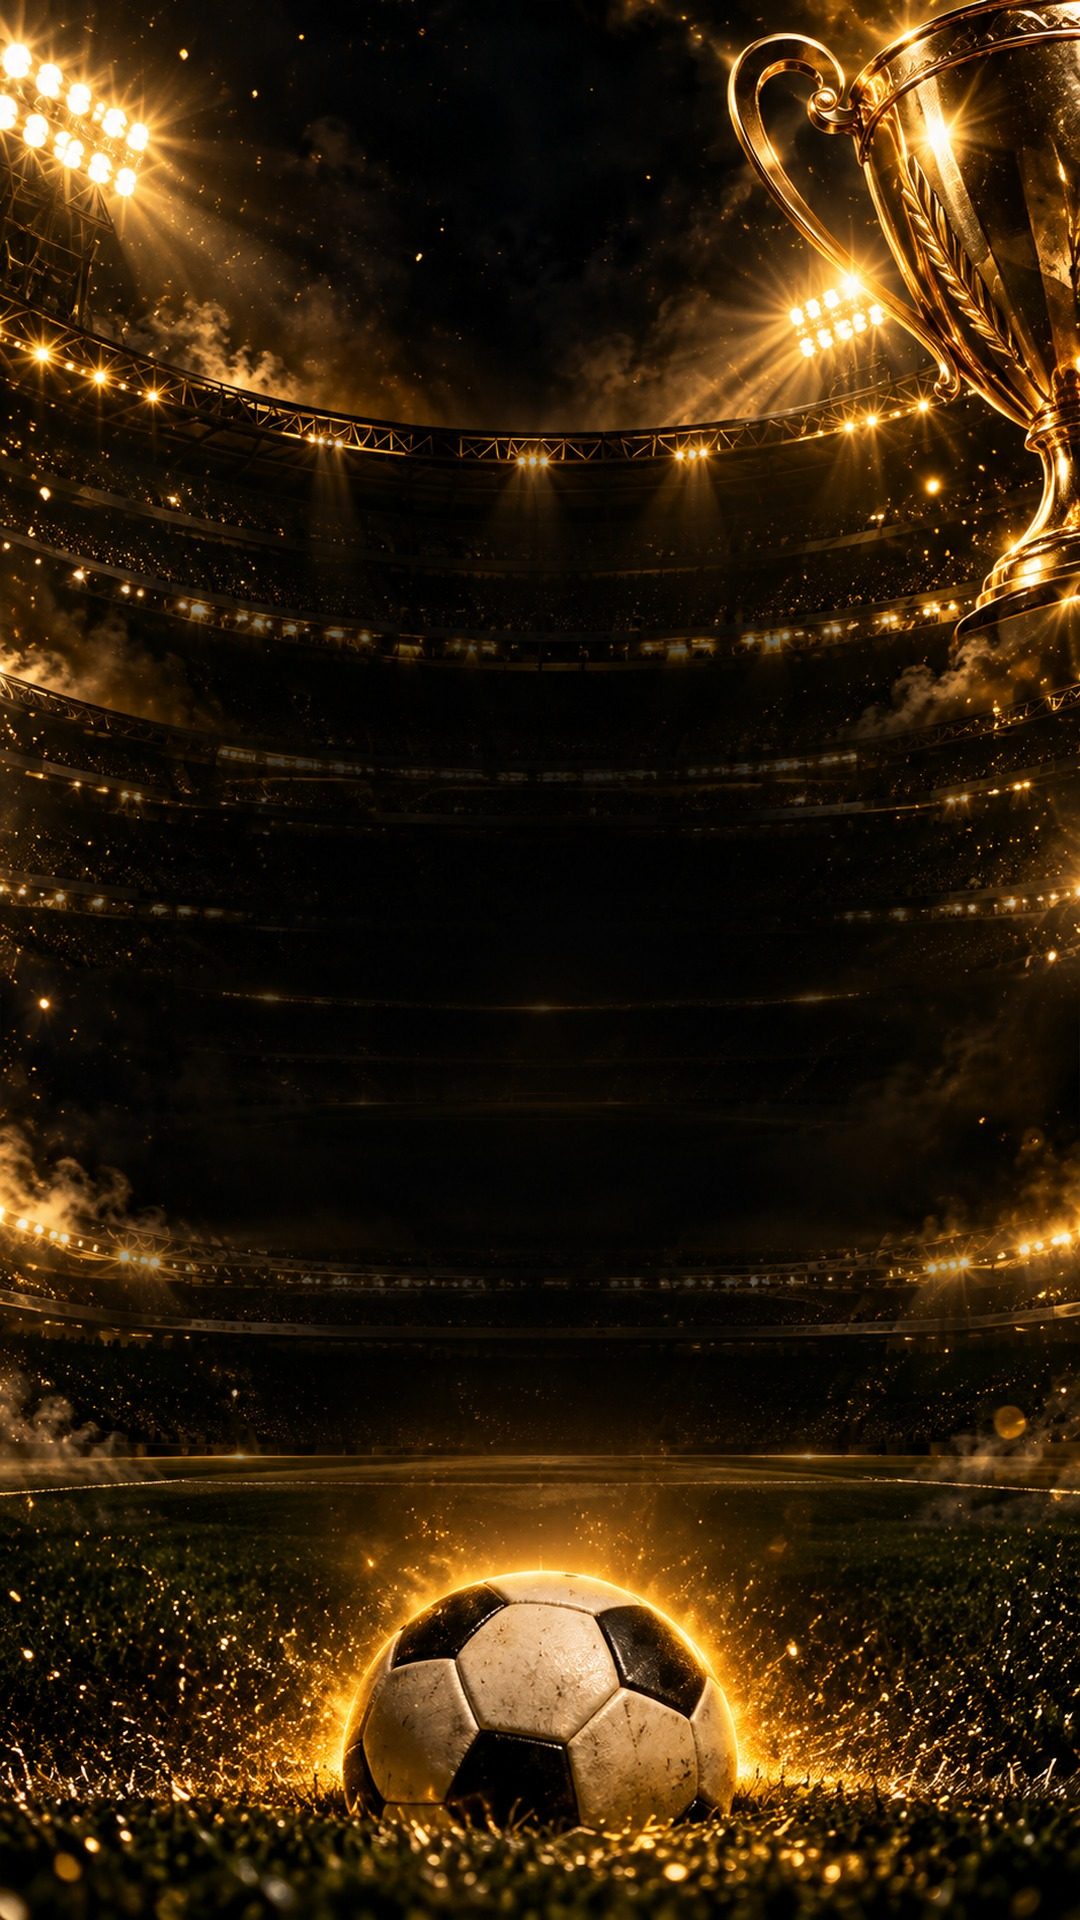
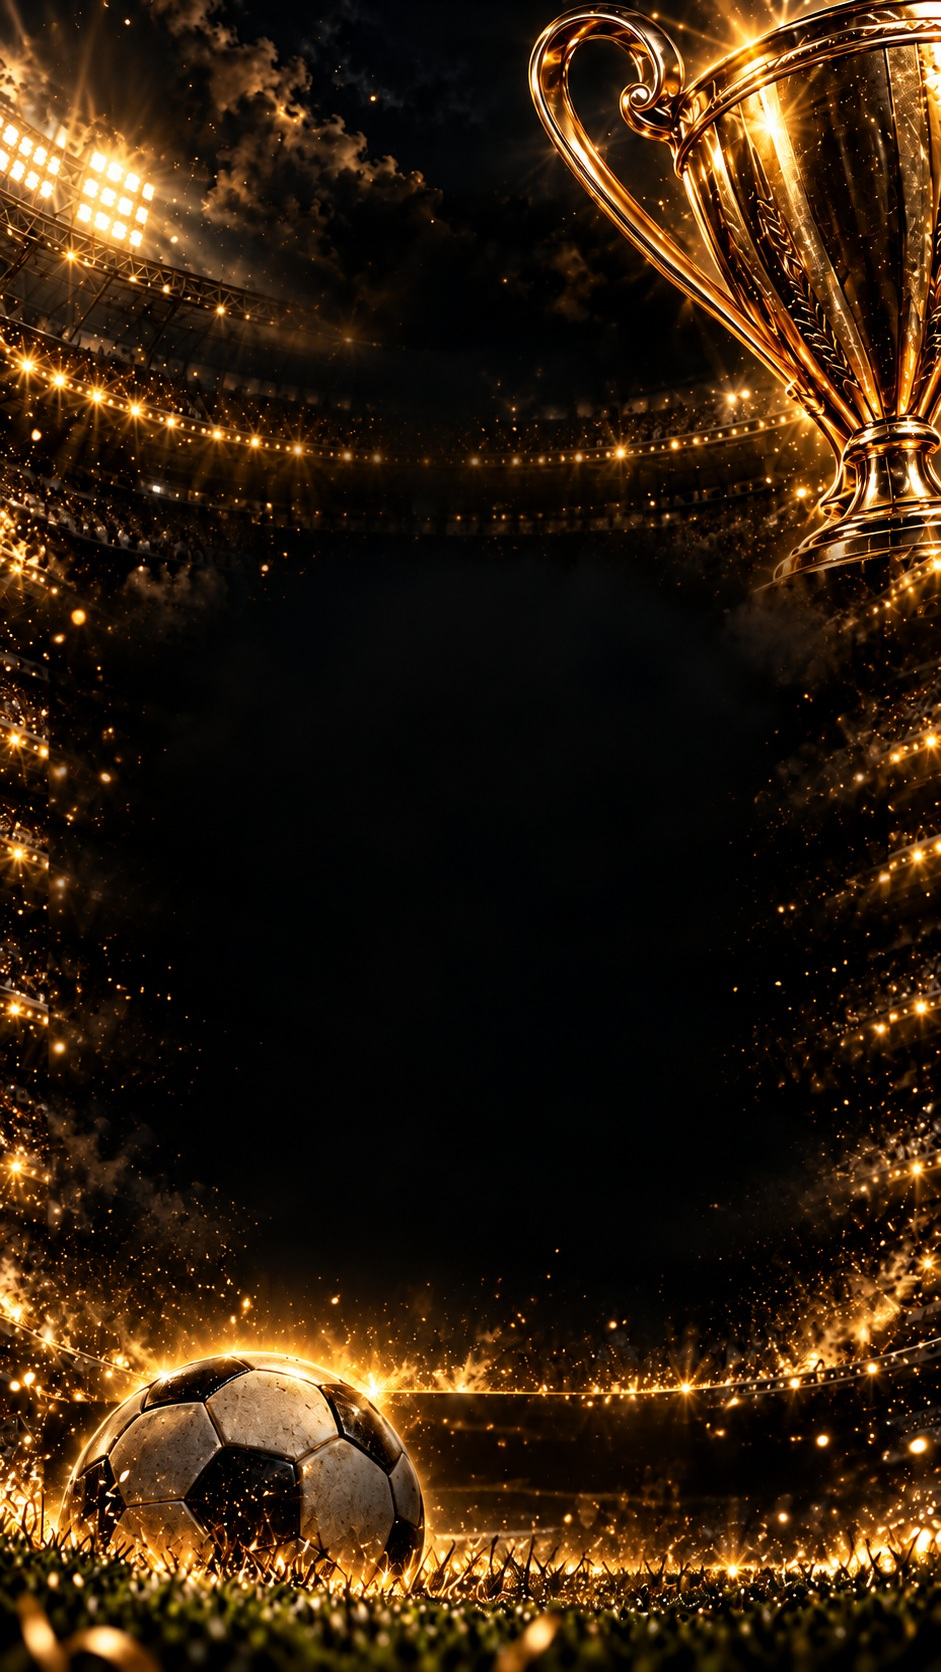
Adopt approved gold stadium reference for future sports graphics

diff --git a/tiktok_daily/cards.py b/tiktok_daily/cards.py
@@ -168,75 +168,65 @@ def cinema(hero, entry, c):
 
 
 def football(hero, entry, c):
-    schedule = entry["fixture_schedule"]
-    matches = schedule["matches"]
+    schedule = entry['fixture_schedule']
+    matches = schedule['matches']
     pages = max(1, math.ceil(len(matches) / 6))
-    if not 1 <= pages <= 10:
-        raise RuntimeError("Fixture schedule exceeds Buffer's 10-photo carousel capacity; do not silently omit matches")
+    if pages > 10:
+        raise RuntimeError('Fixture schedule exceeds 60 matches; refusing to omit fixtures')
     result = []
     for index in range(pages):
         with Image.open(io.BytesIO(hero)) as src:
             image = ImageOps.fit(src.convert('RGB'), (1080,1920), method=Image.Resampling.LANCZOS)
+        # Data remains separate from the artwork: never bake teams or times into AI art.
         overlay = Image.new('RGBA', image.size)
-        panel_draw = ImageDraw.Draw(overlay)
-        draw = ImageDraw.Draw(image)
-        draw.rounded_rectangle((22,22,1058,1898), radius=24, outline=GOLD, width=2)
-        # A compact play-shaped TK mark preserves the illuminated stadium artwork.
-        draw.line([(444,58),(444,204),(621,130),(444,58)], fill=GOLD, width=6)
-        draw.text((466,64),'TK',font=font(67),fill=GOLD)
-        if entry.get('demo'):
-            text(draw, 'معاينة فقط • المباريات والمواعيد تجريبية', (85,222,910,65),size=30,color=WHITE,max_lines=1)
-        elif c.get('correction_notice'):
-            text(draw,'تصحيح جدول المباريات',(85,222,910,65),size=30,color=WHITE,max_lines=1)
-        heading='مباريات اليوم' if schedule.get('date_mode')=='today' else 'مباريات الغد'
-        text(draw, heading, (90,294,900,170),size=100,color=WHITE,max_lines=1,weight=850,stroke=3)
-        text(draw, 'بتوقيت ألمانيا ومكة المكرمة', (100,450,880,90),size=39,max_lines=1)
-        day = datetime.fromisoformat(schedule['date']).strftime('%d / %m / %Y')
-        panel_draw.rounded_rectangle((185,550,895,634),radius=18,fill=(0,0,0,215),outline=GOLD,width=2)
-        page_matches = matches[index * 6:(index + 1) * 6]
-        row_height = min(265, 880 // max(1,len(page_matches)))
-        if not page_matches:
-            panel_draw.rounded_rectangle((55,690,1025,1470),radius=20,fill=(4,9,13,218),outline=GOLD,width=2)
-        for row, match in enumerate(page_matches):
-            top = 690 + row * row_height
-            panel_draw.rounded_rectangle((55,top,1025,top+row_height-12),radius=17,fill=(4,9,13,218),outline=GOLD,width=2)
-        panel_draw.rounded_rectangle((55,1600,1025,1763),radius=18,fill=(0,0,0,160),outline=GOLD,width=2)
+        pd = ImageDraw.Draw(overlay)
+        pd.rounded_rectangle((275,465,805,542), radius=38, fill=(0,0,0,222), outline=GOLD, width=3)
+        page_matches = matches[index*6:(index+1)*6]
+        for row in range(len(page_matches)):
+            top = 588 + row*160
+            # Concentric outlines create a fine gold rim around an opaque readable panel.
+            pd.rounded_rectangle((38,top-3,1042,top+147),radius=23,outline=(255,190,65,65),width=7)
+            pd.rounded_rectangle((42,top,1038,top+144),radius=21,fill=(2,5,7,239),outline=(242,196,99,255),width=3)
+            pd.line((474,top+132,520,top+14),fill=(168,111,36,160),width=2)
+        pd.rounded_rectangle((390,1610,1038,1815),radius=24,fill=(0,0,0,215),outline=GOLD,width=3)
         image = Image.alpha_composite(image.convert('RGBA'),overlay).convert('RGB')
         draw = ImageDraw.Draw(image)
-        text(draw, f'{day}   |   {index+1}/{pages}', (205,562,670,68),size=36,max_lines=1)
+        draw.line([(45,35),(45,145),(169,90),(45,35)],fill=GOLD,width=5)
+        draw.text((60,42),'TK',font=font(49,650),fill=WHITE)
+        heading = 'مباريات اليوم' if schedule.get('date_mode')=='today' else 'مباريات الغد'
+        # A darker offset gives the title the embossed metallic look of the approved reference.
+        text(draw,heading,(83,238,917,175),size=115,color='#603e16',max_lines=1,weight=900,stroke=4)
+        text(draw,heading,(80,232,917,175),size=115,color='#ffdc85',max_lines=1,weight=900,stroke=2)
+        text(draw,'بتوقيت ألمانيا ومكة المكرمة',(130,397,820,74),size=40,max_lines=1,weight=600,stroke=2)
+        day = datetime.fromisoformat(schedule['date']).strftime('%d / %m / %Y')
+        text(draw,f'{day}   |   {index+1}/{pages}',(294,471,490,65),size=35,max_lines=1)
+        if entry.get('demo') or c.get('correction_notice'):
+            label = 'معاينة فقط • المباريات والمواعيد تجريبية' if entry.get('demo') else 'تصحيح جدول المباريات'
+            text(draw,label,(90,161,900,65),size=28,max_lines=1,color=GOLD,stroke=2)
         if not page_matches:
-            text(draw,'لا مباريات مؤكدة',(85,775,910,135),size=62,color=GOLD,max_lines=1,weight=750)
-            text(draw,'في البطولات المتابعة حسب المصدر حاليًا',(85,947,910,150),size=43,max_lines=2)
-            text(draw,'قد توجد مباريات في بطولات أخرى. نراجع الجدول يوميًا من football-data.org.',(85,1140,910,180),size=35,max_lines=3)
-            text(draw,'نعود غدًا بتحديث جديد',(85,1360,910,90),size=36,color=GOLD,max_lines=1)
+            text(draw,'لا مباريات مؤكدة',(80,760,920,120),size=60,color=GOLD,max_lines=1)
         for row, match in enumerate(page_matches):
-            top = 690 + row * row_height
-            compact = row_height < 210
-            text(draw, match['competition'], (80,top+5,920,44 if compact else 55),size=22 if compact else 29,color=GOLD,max_lines=1)
-            name_top = top + (45 if compact else 70)
-            name_height = 54 if compact else 92
-            badge_size = 43 if compact else 69
-            for field,left in [('away_crest',82),('home_crest',945)]:
+            top = 588 + row*160
+            text(draw,match['competition'],(550,top+1,355,40),size=21,color=GOLD,max_lines=1)
+            for field, left in [('away_crest',70),('home_crest',920)]:
                 badge = crest(match.get(field))
                 if badge is not None:
-                    badge = ImageOps.contain(badge,(badge_size,badge_size),method=Image.Resampling.LANCZOS)
-                    image.paste(badge,(left,name_top),badge)
-            text(draw, match['away'], (140,name_top,340,name_height),size=28 if compact else 43,max_lines=1)
-            text(draw, match['home'], (615,name_top,315,name_height),size=28 if compact else 43,max_lines=1)
-            draw.text((515,name_top+5),'VS',font=font(25 if compact else 32),fill=GOLD)
+                    badge = ImageOps.contain(badge,(94,100),method=Image.Resampling.LANCZOS)
+                    image.paste(badge,(left+(94-badge.width)//2,top+26+(100-badge.height)//2),badge)
+            text(draw,match['away'],(177,top+25,266,91),size=36,max_lines=2,weight=700)
+            text(draw,match['home'],(580,top+25,325,91),size=34,max_lines=2,weight=700)
+            text(draw,'VS',(453,top+39,80,65),size=34,color='#ffdc85',max_lines=1,weight=700)
             germany = f"ألمانيا {match['germany_time']}"
             makkah = f"مكة {match['makkah_time']}"
             if match['makkah_date'] != match['germany_date']:
                 makkah += ' (+1 يوم)'
-            time_top = top + (100 if compact else 174)
-            text(draw,germany,(85,time_top,420,42 if compact else 73),size=22 if compact else 36,color=GOLD,max_lines=1)
-            text(draw,makkah,(575,time_top,420,42 if compact else 73),size=22 if compact else 36,color=GOLD,max_lines=1)
-        text(draw,c.get('brand_name','TK SERVERS'),(90,1614,900,80),size=45,color=GOLD,max_lines=1)
+            text(draw,germany,(175,top+102,268,40),size=25,color=WHITE,max_lines=1)
+            text(draw,makkah,(550,top+102,355,40),size=25,color=WHITE,max_lines=1)
+        text(draw,c.get('brand_name','TK SERVERS'),(410,1643,600,106),size=67,color='#ffdc85',max_lines=1,weight=850,stroke=2)
         signature = c.get('caption_suffix','شاهدها على سيرفراتنا').replace('⚡','').replace('🏆','').strip()
-        text(draw,signature,(85,1698,915,63),size=28,max_lines=1)
-        sources=' / '.join(schedule.get('sources',['football-data.org']))
-        note = 'معاينة تصميم • ليست مباريات مؤكدة' if entry.get('demo') else f'المواعيد: {sources} • قابلة للتغيير • الخلفية مولّدة بالذكاء الاصطناعي'
-        text(draw,note,(70,1845,940,45),size=20,max_lines=1)
+        text(draw,signature,(402,1753,610,59),size=25,max_lines=1,weight=600)
+        sources = ' / '.join(schedule.get('sources',['football-data.org']))
+        text(draw,f'المواعيد: {sources} • قابلة للتغيير',(70,1848,940,42),size=21,max_lines=1)
         result.append(encode(image))
     return result
 

diff --git a/tiktok_daily/runner.py b/tiktok_daily/runner.py
@@ -8,8 +8,11 @@ from .content import prepare_image, image_is_duplicate
 from .http import APIError
 from .football import Football, football_content
 from .cards import render, encode
+
 from .cinema_media import artwork
 from .video import make_video
+
+FOOTBALL_TEMPLATE = "gold-reference-v2"
 
 
 def utc_text(now):
@@ -192,7 +195,8 @@ class Publisher:
                     self.store.save_image(filename, data)
                     assets.append({"file": filename, "sha256": checksum})
                 entry.update(status="image_ready", image_file=assets[0]["file"], image_sha256=assets[0]["sha256"],
-                             image_dhash=perceptual, image_assets=assets)
+                             image_dhash=perceptual, image_assets=assets,
+                             football_template=FOOTBALL_TEMPLATE if entry.get("post_kind") == "football" else None)
                 self.store.checkpoint()
                 break
             if entry["status"] != "image_ready":
@@ -204,15 +208,18 @@ class Publisher:
                     raise RuntimeError("Fixtures were cancelled after preparation; review before publishing")
                 changed = latest["matches"] != entry["fixture_schedule"]["matches"]
                 entry.update(football_content(latest, self.c))
-                if changed:
-                    hero = (self.store.path / "images" / entry["hero_file"]).read_bytes()
+                if changed or entry.get("football_template") != FOOTBALL_TEMPLATE:
+                    stadium = self.c.get("football_background")
+                    hero = ((Path(__file__).resolve().parents[1] / stadium).read_bytes() if stadium else
+                            (self.store.path / "images" / entry["hero_file"]).read_bytes())
                     assets = []
                     for index, picture in enumerate(render(hero, entry, self.c)):
                         data, checksum, _ = prepare_image(picture)
                         filename = f"{day}-{hashlib.sha256(key.encode()).hexdigest()[:10]}-{index + 1}.jpg"
                         self.store.save_image(filename, data)
                         assets.append({"file": filename, "sha256": checksum})
-                    entry.update(image_assets=assets, image_file=assets[0]["file"], image_sha256=assets[0]["sha256"])
+                    entry.update(image_assets=assets, image_file=assets[0]["file"], image_sha256=assets[0]["sha256"],
+                                 football_template=FOOTBALL_TEMPLATE)
                 self.store.checkpoint()
             entry["image_url"] = self.store.image_url(entry["image_file"])
             entry["image_urls"] = [self.store.image_url(a["file"]) for a in entry.get("image_assets", [{"file": entry["image_file"]}])]

diff --git a/tests/test_football.py b/tests/test_football.py
@@ -113,5 +113,20 @@ class RoutingTests(unittest.TestCase):
         self.publisher(Changing()).prepare()
         self.assertEqual(self.buffer.creates, 1)
 
+    def test_prepared_unsubmitted_sports_card_upgrades_template_without_paid_image(self):
+        from tiktok_daily.runner import FOOTBALL_TEMPLATE
+        schedule = Football(FakeHTTP([{"matches": [fixture()]}]), auto_config(), token="dummy", clock=lambda: NOW).tomorrow("2026-10-13")
+        class Stable:
+            def tomorrow(self, day): return copy.deepcopy(schedule)
+        self.publisher(Stable()).prepare()
+        entry = next(iter(self.store.state['entries'].values()))
+        # Simulate the persisted, not-yet-submitted card left by a previous renderer.
+        entry.update(status='image_ready', football_template='old', image_sha256='old-card')
+        self.publisher(Stable()).prepare()
+        self.assertEqual(entry['football_template'], FOOTBALL_TEMPLATE)
+        self.assertNotEqual(entry['image_sha256'], 'old-card')
+        self.assertEqual(self.generator.images, 0)
+        self.assertEqual(self.store.state['image_requests'], {})
+
 
 if __name__ == "__main__": unittest.main()

diff --git a/docs/GRAPHICS_REFERENCE.md b/docs/GRAPHICS_REFERENCE.md
@@ -1,0 +1,9 @@
+# Approved sports graphics — 2026-10-14
+
+Adopts the user-provided black/gold stadium, trophy and bottom-left football reference. Background artwork has no baked-in fixtures or team marks. Team crests, Arabic names, Germany/Makkah times, fixture date and page count are rendered from verified provider data. Six matches per page; all pages remain in the existing 20-second video with the approved sports music.
+
+The reusable background is committed; no additional daily image-generation API charge. Rendering does not copy the reference screenshot’s fixture facts.
+
+Unsubmitted image_ready sports entries re-render on template version changes, using the current configured background. Their video fingerprint then forces re-encoding. Accepted/sent posts retain the existing idempotent handling.
+
+Validation: 68 local tests passed, including template migration with unchanged fixtures and no paid image request. Six preview pages rendered from the previously verified 36-fixture snapshot for 2026-10-15. This snapshot is for visual review; live publication refreshes fixtures before submission.
